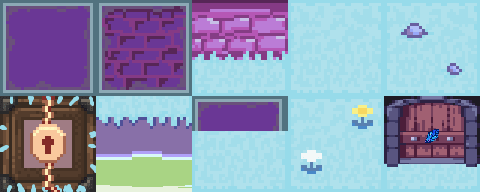
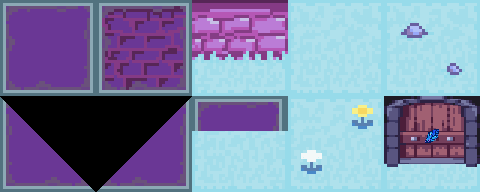
added diagonal ramps

Changed region(s): [[0.0, 0.5, 0.4062, 1.0]]

diff --git a/script/jquery-2.2.0.min.js b/script/jquery-2.2.0.min.js
@@ -35,11 +35,14 @@ $(document).ready(function(){
     var flip_memory=[];
     var player=new Image();
     var sprite_shift_y=0;
+    var sprite_shift_x=0;
     var walk_frame=1;
     var frame_delay=10;
     var running=0;
     var falling=0;
     var onPlatform=0;
+    var onDiagonal=0;
+    var stairsDir=0;
     var jumpDown=0;
     //player.src='css/assets/maidens/revenant.png';
     player.src='css/assets/kyoko.png';
@@ -94,6 +97,14 @@ $(document).ready(function(){
       sprite_start:[192,96],
       sprite_end:[95,95]
     }
+    var diagonal_wall={
+      sprite_start:[96,96],
+      sprite_end:[95,95]
+    }
+    var diagonal_wall2={
+      sprite_start:[0,96],
+      sprite_end:[95,95]
+    }
     var ground={
       sprite_start:[288,0],
       sprite_end:[95,95]
@@ -103,14 +114,22 @@ $(document).ready(function(){
     //END FOR TURF
 
     var map=[
-      [1,1,1,1,1,1,1,1,1,1,1,1,1,1,1,1,1,1,1],
-      [1,2,2,2,2,2,2,2,2,2,2,2,2,2,2,2,2,2,1],
-      [1,0,0,0,0,0,0,0,0,0,0,0,0,0,0,0,0,0,1],
-      [1,0,3,0,0,99,0,0,0,0,0,0,0,0,0,0,0,0,1],
-      [1,0,0,0,0,0,0,1,0,0,0,0,0,0,0,0,0,0,1],
-      [1,3,3,0,0,0,0,0,0,0,0,0,0,0,0,0,0,0,1],
-      [1,0,0,0,0,0,0,0,0,0,0,0,0,0,0,0,0,0,1],
-      [1,1,1,1,1,1,1,1,1,1,1,1,1,1,1,1,1,1,1]
+      /*[1,1,1,1,1,1,1,1,1,1,1,1,1,1,1,1,1,1,1,1,1,1,1],
+      [1,2,2,2,2,2,2,2,2,2,2,2,2,2,2,2,2,2,2,2,2,2,1],
+      [1,0,0,0,0,0,0,0,0,0,0,0,0,0,0,0,0,0,0,0,8,0,1],
+      [1,0,8,0,0,0,3,0,0,99,0,0,0,0,0,0,0,0,0,0,5,1,1],
+      [1,1,6,0,0,0,0,0,0,0,0,1,0,0,0,0,0,0,0,5,1,1,1],
+      [1,1,1,6,0,3,3,0,0,0,0,0,0,0,0,0,0,0,5,1,1,1,1],
+      [1,1,1,1,6,7,0,0,0,0,0,0,0,0,0,0,7,5,1,1,1,1,1],
+      [1,1,1,1,1,1,1,1,1,1,1,1,1,1,1,1,1,1,1,1,1,1,1]*/
+      [1,1,1,1,1,1,1,1,1,1,1,1,1,1,1,1,1,1,1,1,1,1,1],
+      [1,2,2,2,2,2,2,2,2,2,2,2,2,2,2,2,2,2,2,2,2,2,1],
+      [1,0,0,0,0,0,0,0,0,0,0,0,0,0,0,0,0,0,0,0,0,0,1],
+      [1,0,0,0,0,0,3,0,0,99,0,0,0,0,0,0,0,0,0,7,5,1,1],
+      [1,6,8,0,0,0,0,0,0,0,0,1,0,0,0,0,0,0,7,5,1,1,1],
+      [1,1,6,8,0,3,3,0,0,0,0,0,0,0,0,0,0,7,5,1,1,1,1],
+      [1,1,1,6,8,0,0,0,0,0,0,0,0,0,0,0,7,5,1,1,1,1,1],
+      [1,1,1,1,1,1,1,1,1,1,1,1,1,1,1,1,1,1,1,1,1,1,1]
     ];
     var shadermap=[];
     
@@ -201,9 +220,23 @@ $(document).ready(function(){
           else if(map[i][j]==2){
             context.drawImage(turf,side_wall.sprite_start[0],side_wall.sprite_start[1],side_wall.sprite_end[0],side_wall.sprite_end[1],posX-camX,posY-camY,tilesize,tilesize);
           }
-          else if(map[i][j]==3){
+          else if(map[i][j]==3){//platforms accesible from the bottom
             platform_list.push([j*tilesize,i*tilesize,tilesize]);//platformlist
             context.drawImage(turf,platform.sprite_start[0],platform.sprite_start[1],platform.sprite_end[0],platform.sprite_end[1],posX-camX,posY-camY,tilesize,tilesize);
+          }
+          else if(map[i][j]==5){//right stairs
+            bump_list.push([j*tilesize,i*tilesize,tilesize]);
+            context.drawImage(turf,diagonal_wall.sprite_start[0],diagonal_wall.sprite_start[1],diagonal_wall.sprite_end[0],diagonal_wall.sprite_end[1],posX-camX,posY-camY,tilesize,tilesize);
+          }
+          else if(map[i][j]==6){//left stairs
+            bump_list.push([j*tilesize,i*tilesize,tilesize]);
+            context.drawImage(turf,diagonal_wall2.sprite_start[0],diagonal_wall2.sprite_start[1],diagonal_wall2.sprite_end[0],diagonal_wall2.sprite_end[1],posX-camX,posY-camY,tilesize,tilesize);
+          }
+          else if(map[i][j]==7){//walkdiag R
+            context.drawImage(turf,ground.sprite_start[0],ground.sprite_start[1],ground.sprite_end[0],ground.sprite_end[1],posX-camX,posY-camY,tilesize,tilesize);
+          }
+          else if(map[i][j]==8){//walkdiag L
+            context.drawImage(turf,ground.sprite_start[0],ground.sprite_start[1],ground.sprite_end[0],ground.sprite_end[1],posX-camX,posY-camY,tilesize,tilesize);
           }
           posX+=tilesize;
         }
@@ -279,14 +312,14 @@ $(document).ready(function(){
               }
               else{
                 if(stop==1){
-                  context.drawImage(player,sel_character.sprite_start[0],sel_character.sprite_start[1],sel_character.sprite_end[0],sel_character.sprite_end[1],(posX-camX)+loc[0],(posY-camY)+loc[1]+sprite_shift_y,sel_character.width,sel_character.height);
+                  context.drawImage(player,sel_character.sprite_start[0],sel_character.sprite_start[1],sel_character.sprite_end[0],sel_character.sprite_end[1],(posX-camX)+loc[0]+sprite_shift_x,(posY-camY)+loc[1]+sprite_shift_y,sel_character.width,sel_character.height);
                 }
                 else{
                   if(running==0){
-                    context.drawImage(player,61*walk_frame,69,sel_character.sprite_end[0],sel_character.sprite_end[1],(posX-camX)+loc[0],(posY-camY)+loc[1]+sprite_shift_y,sel_character.width,sel_character.height);
+                    context.drawImage(player,61*walk_frame,69,sel_character.sprite_end[0],sel_character.sprite_end[1],(posX-camX)+loc[0]+sprite_shift_x,(posY-camY)+loc[1]+sprite_shift_y,sel_character.width,sel_character.height);
                   }
                   else{
-                    context.drawImage(player,61*walk_frame,138,sel_character.sprite_end[0],sel_character.sprite_end[1],(posX-camX)+loc[0],(posY-camY)+loc[1]+sprite_shift_y,sel_character.width,sel_character.height);
+                    context.drawImage(player,61*walk_frame,138,sel_character.sprite_end[0],sel_character.sprite_end[1],(posX-camX)+loc[0]+sprite_shift_x,(posY-camY)+loc[1]+sprite_shift_y,sel_character.width,sel_character.height);
                   }
                 }
               }
@@ -404,6 +437,23 @@ $(document).ready(function(){
         return 1;
       }
     }
+    function itemBump(dir){
+      if(map[Math.round(src_loc[1]/tilesize)][Math.round(src_loc[0]/tilesize)]==8||map[Math.round(src_loc[1]/tilesize)+1][Math.round(src_loc[0]/tilesize)]==8){
+        stairsDir=1;
+        sprite_shift_x=-tilesize*0.7;
+        onDiagonal=1;
+      }
+      else if(map[Math.round(src_loc[1]/tilesize)][Math.round(src_loc[0]/tilesize)]==7||map[Math.round(src_loc[1]/tilesize)+1][Math.round(src_loc[0]/tilesize)]==7){
+        stairsDir=0;
+        sprite_shift_x=tilesize*0.2;
+        onDiagonal=1;
+      }
+      else{
+        onDiagonal=0;
+        sprite_shift_x=0;
+        sprite_shift_y=0;
+      }
+    }
     function bumpPlatform(dir){
       if(dir=='s'){
         for(var i=0;i<platform_list.length;i++){
@@ -482,41 +532,43 @@ $(document).ready(function(){
     });
 
     function gravity(){
-      if(jumping){
-        jumpTime-=3;
-        if(jumpTime>0){
-          camY-=player_speed+2;
-          loc[1]-=player_speed+2;
-          src_loc[1]-=player_speed+2;
-          if(checkBump('n')==0){
+      if(!onDiagonal){
+        if(jumping){
+          jumpTime-=3;
+          if(jumpTime>0){
+            camY-=player_speed+2;
+            loc[1]-=player_speed+2;
+            src_loc[1]-=player_speed+2;
+            if(checkBump('n')==0){
+              jumpTime=0;
+              jump_timeOut=1;
+            }
+          }
+          else{
             jumpTime=0;
             jump_timeOut=1;
           }
         }
         else{
-          jumpTime=0;
-          jump_timeOut=1;
-        }
-      }
-      else{
-        if(checkBump('s')==1&&bumpPlatform('s')==1){
-          onPlatform=0;
-          falling=1;
-          camY+=player_speed+4;
-          loc[1]+=player_speed+4;
-          src_loc[1]+=player_speed+4;
-        }
-        else{
-          jumpTime=100;
-          falling=0;
-          sprite_shift_y=0;
-          if(bumpPlatform('s')==0){
-            onPlatform=1;
-            sprite_shift_y=4;
+          if(checkBump('s')==1&&bumpPlatform('s')==1){
+            onPlatform=0;
+            falling=1;
+            camY+=player_speed+4;
+            loc[1]+=player_speed+4;
+            src_loc[1]+=player_speed+4;
+          }
+          else{
+            jumpTime=100;
+            falling=0;
+            sprite_shift_y=0;
+            if(bumpPlatform('s')==0){
+              onPlatform=1;
+              sprite_shift_y=Math.round(tilesize/20);
+            }
           }
         }
       }
-      $('#debugger').text('onPlatform '+onPlatform);//'src_loc['+src_loc[0]+','+src_loc[1]+']');
+      $('#debugger').text('onDiagonal '+onDiagonal);//$('#debugger').text('loc item '+map[Math.round(src_loc[1]/tilesize)+1][Math.round(src_loc[0]/tilesize)]);//'src_loc['+src_loc[0]+','+src_loc[1]+']');
     }
 
     function movement(){
@@ -544,19 +596,52 @@ $(document).ready(function(){
         }
         else if(movedir=='e'||movedir=='se'||movedir=='ne'){
           player.src='css/assets/kyoko.png';
-          if(checkBump('e')==1){
+          if(checkBump('e')==1&&!onDiagonal){
             camX+=player_speed+extraSpeed;
             loc[0]+=player_speed+extraSpeed;
             src_loc[0]+=player_speed+extraSpeed;
           }
+          if(onDiagonal){
+            camX+=player_speed+extraSpeed;
+            loc[0]+=player_speed+extraSpeed;
+            src_loc[0]+=player_speed+extraSpeed;
+            if(stairsDir==0){
+              camY-=player_speed+extraSpeed;
+              loc[1]-=player_speed+extraSpeed;
+              src_loc[1]-=player_speed+extraSpeed;
+            }
+            else{
+              camY+=player_speed+extraSpeed;
+              loc[1]+=player_speed+extraSpeed;
+              src_loc[1]+=player_speed+extraSpeed;
+            }
+          }
+          itemBump(movedir);
         }
         else if(movedir=='w'||movedir=='sw'||movedir=='nw'){
           player.src='css/assets/kyoko-r.png';
-          if(checkBump('w')==1){
+          if(checkBump('w')==1&&!onDiagonal){
             camX-=player_speed+extraSpeed;
             loc[0]-=player_speed+extraSpeed;
             src_loc[0]-=player_speed+extraSpeed;
           }
+          if(onDiagonal){
+            camX-=player_speed+extraSpeed;
+            loc[0]-=player_speed+extraSpeed;
+            src_loc[0]-=player_speed+extraSpeed;
+            if(stairsDir==1){
+              camY-=player_speed+extraSpeed;
+              loc[1]-=player_speed+extraSpeed;
+              src_loc[1]-=player_speed+extraSpeed;
+            }
+            else{
+              camY+=player_speed+extraSpeed;
+              loc[1]+=player_speed+extraSpeed;
+              src_loc[1]+=player_speed+extraSpeed;
+            }
+            //MAKE A MAP ITEM FOR STAIRS END THAT PUTS YOU IN onDiagonal=0; FOR EACH START AND END OF STAIRS
+          }
+          itemBump(movedir);
         }
         $('#debugger').text('src_loc['+src_loc[0]+','+src_loc[1]+']');
       }
